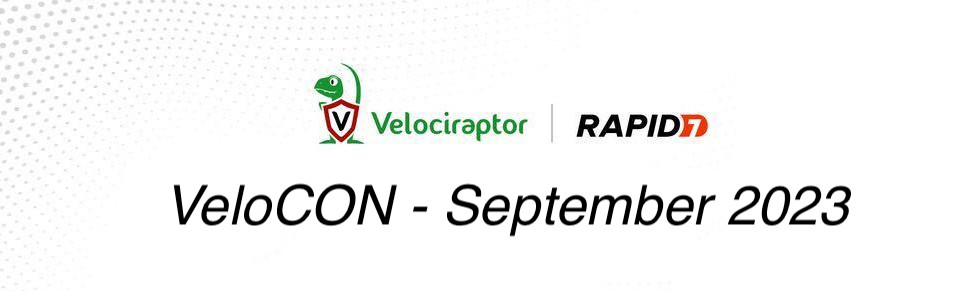
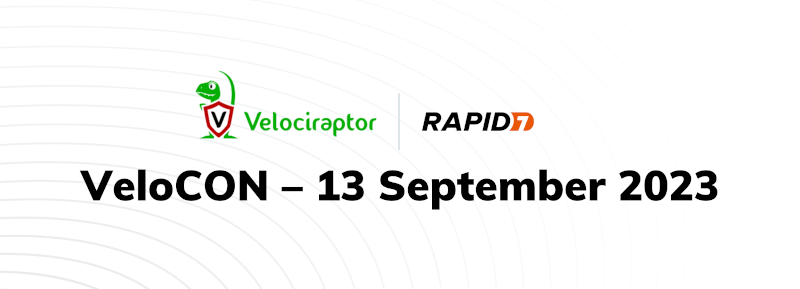
Scale image to a more reasonable size

diff --git a/content/announcements/2023-velocon/_index.md b/content/announcements/2023-velocon/_index.md
@@ -9,8 +9,7 @@ no_edit: true
 noTitle: true
 ---
 
-![image (2)](https://github.com/Velocidex/velociraptor-docs/assets/90914858/742a881f-6fa5-46f5-92d8-695cc8cf0524)
-
+<img style="width: 100%" src="velocon_banner_2023.jpg">
 
 We are thrilled to announce that the 2nd annual VeloCON virtual summit will
 be held this September 13th, with times oriented to the continental
